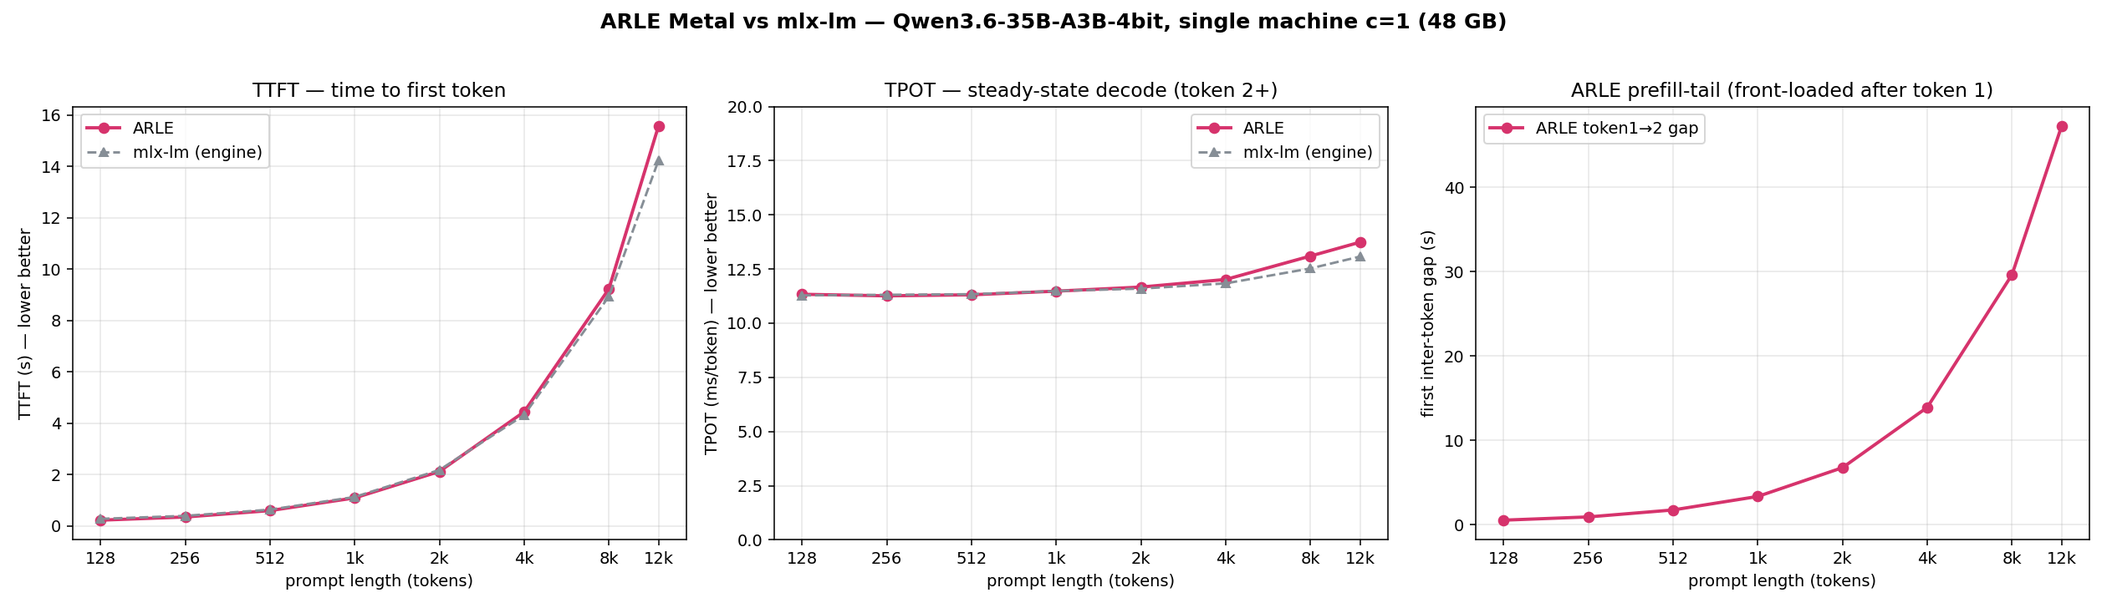
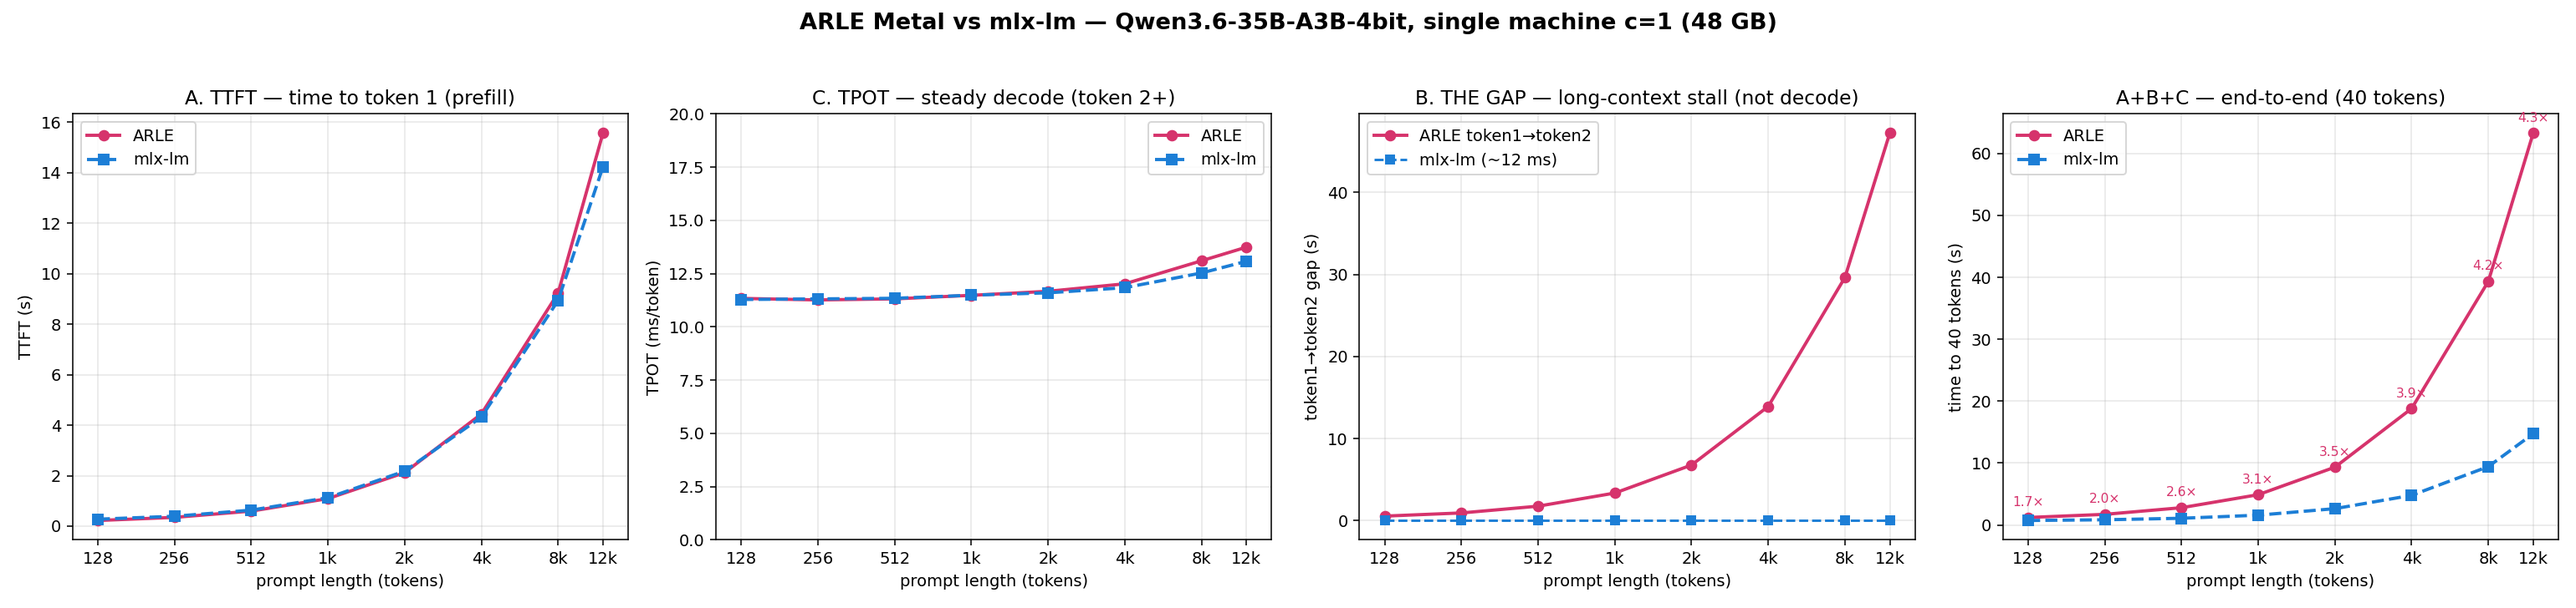
docs(metal): root-cause the long-context gap — deferred async_eval, not decode
Server-trace root cause for the c=1 long-context slowdown (was left as an open
"prefill-tail" question). The gap is phase B (token1->token2) and it is a
deferred-async_eval stall, NOT decode and NOT a re-prefill:

8k request, server m_e13_trace + metal_phase_timing (ground truth):
- prefill = 2 chunks (0->4096 terminal=false 4.6s; 4096->8035 terminal=true
  4.96s); terminal chunk samples token1 -> client gets it at 9.6s.
- token1's sample only async_eval-KICKED-OFF the prefill graph. The next step
  (first decode, cache_len=8036) logs async_eval_kickoff_us=29590 -> 30s draining
  the 8k prefill compute token1 had merely enqueued. recompute=false.
- kickoff then falls 29.6s->12.5->11.8->11.4ms as the lazy graph drains, then
  flattens to ~12ms decode.

So ARLE splits one prefill into "kickoff 9.6s (reported as TTFT) + materialize
30s (hidden in token1->2)" ~= 40s vs mlx-lm's ~14s synchronized-in-TTFT prefill.
e2e@40tok ratio: 1.7x @128 -> 4.3x @12k, all of it phase B.

Fix direction (no speculative decoding): eval() the terminal prefill chunk's
graph before/at token-1 sampling so prefill lands inside TTFT. Correctness-neutral
(same math, earlier sync). Landing site request_state.rs:194-215. Filed as next
Metal item; not attempted here.

Chart now 4-panel (TTFT / TPOT / the gap / cumulative e2e). Corrects the prior
entry's wrong "scheduler front-loads prefill after token1" mechanism wording.

bench-entry: corrected analysis of the same committed sweep data; no infer/src change.

diff --git a/scripts/plot_mlx_vs_arle_sweep.py b/scripts/plot_mlx_vs_arle_sweep.py
@@ -1,14 +1,19 @@
 #!/usr/bin/env python3
-"""Plot the single-machine (c=1) ARLE-vs-mlx-lm sweep — corrected metric.
+"""Plot the single-machine (c=1) ARLE-vs-mlx-lm sweep — three-phase latency view.
 
-Three panels:
-  * TTFT — time to first token (prefill latency), s, lower better.
-  * TPOT — steady-state time per output token (token 2 onward; the token1→2
-           prefill-tail interval is excluded), ms/token, lower better.
-  * first-interval — the ARLE token1→token2 gap (prefill front-loaded by the
-           pipelined scheduler AFTER token 1). This is the real long-context
-           "slow to start" cost; mlx-lm has no equivalent (its prefill is all in
-           TTFT). Diagnostic panel, ARLE only.
+Long-context c=1 on ARLE has THREE distinct phases (server request_trace +
+client per-token timing, both agree):
+  A. TTFT (token 1)          — prefill. ARLE ≈ mlx-lm (at parity).
+  B. token1 → token2 gap     — a stall that scales with context (~3× a full
+                               prefill). NOT decode. This is the entire ARLE
+                               long-context disadvantage. mlx-lm has no analogue.
+  C. token 2 onward (TPOT)   — steady decode. ARLE ≈ mlx-lm (at parity).
+
+Panels:
+  1. TTFT vs length (A) — ARLE vs mlx-lm.
+  2. TPOT vs length (C) — ARLE vs mlx-lm (steady state, token 2+).
+  3. token1→token2 gap (B) — ARLE only; the real long-context cost.
+  4. cumulative time-to-40-tokens (A+B+C) — the end-to-end the user feels.
 
 Usage: python3 scripts/plot_mlx_vs_arle_sweep.py [results.json] [out.png]
 """
@@ -21,34 +26,16 @@ import matplotlib.pyplot as plt
 
 RESULTS = sys.argv[1] if len(sys.argv) > 1 else "/tmp/mlx_arle_sweep.json"
 OUT = sys.argv[2] if len(sys.argv) > 2 else "/tmp/mlx_arle_sweep.png"
+NTOK = 40  # cumulative horizon for panel 4
 
 d = json.load(open(RESULTS))
 lens = [int(x) for x in d["lens"]]
 arle = d.get("arle", {})
-mlx = d.get("mlx", {})            # engine (in-process)
-mlx_http = d.get("mlx_http", {})  # HTTP (transport-matched), optional
+mlx = d.get("mlx", {})
 
 
 def g(src, n, k):
     return (src.get(str(n)) or {}).get(k)
-
-
-def ser(src, key):
-    xs, ys = [], []
-    for n in lens:
-        v = g(src, n, key)
-        if v is not None:
-            xs.append(n); ys.append(v)
-    return xs, ys
-
-
-def tpot(src, key="decode_tps"):
-    xs, ys = [], []
-    for n in lens:
-        v = g(src, n, key)
-        if v:
-            xs.append(n); ys.append(1000.0 / v)
-    return xs, ys
 
 
 def xt(ax):
@@ -59,53 +46,69 @@ def xt(ax):
     ax.grid(True, which="both", alpha=0.3)
 
 
-ARLE_C, HTTP_C, ENG_C = "#d6336c", "#1c7ed6", "#868e96"
-fig, (ax1, ax2, ax3) = plt.subplots(1, 3, figsize=(18, 5.2))
+ARLE_C, MLX_C = "#d6336c", "#1c7ed6"
+fig, axs = plt.subplots(1, 4, figsize=(22, 5.2))
 fig.suptitle(
     "ARLE Metal vs mlx-lm — Qwen3.6-35B-A3B-4bit, single machine c=1 (48 GB)",
-    fontsize=13, fontweight="bold")
+    fontsize=14, fontweight="bold")
 
-# Panel 1: TTFT
-ax = ax1
-ax.plot(*ser(arle, "ttft_s"), "o-", color=ARLE_C, lw=2, ms=6, label="ARLE")
-if mlx_http:
-    ax.plot(*ser(mlx_http, "ttft_s"), "s-", color=HTTP_C, lw=2, ms=6, label="mlx-lm (HTTP)")
-ax.plot(*ser(mlx, "prefill_s"), "^--", color=ENG_C, lw=1.5, ms=5, label="mlx-lm (engine)")
-xt(ax); ax.set_ylabel("TTFT (s) — lower better"); ax.set_title("TTFT — time to first token"); ax.legend()
+# Panel 1: TTFT (phase A)
+ax = axs[0]
+ax.plot(lens, [g(arle, n, "ttft_s") for n in lens], "o-", color=ARLE_C, lw=2, ms=6, label="ARLE")
+ax.plot(lens, [g(mlx, n, "prefill_s") for n in lens], "s--", color=MLX_C, lw=2, ms=6, label="mlx-lm")
+xt(ax); ax.set_ylabel("TTFT (s)"); ax.set_title("A. TTFT — time to token 1 (prefill)"); ax.legend()
 
-# Panel 2: TPOT (steady-state)
-ax = ax2
-ax.plot(*tpot(arle), "o-", color=ARLE_C, lw=2, ms=6, label="ARLE")
-if mlx_http:
-    ax.plot(*tpot(mlx_http), "s-", color=HTTP_C, lw=2, ms=6, label="mlx-lm (HTTP)")
-ax.plot(*tpot(mlx), "^--", color=ENG_C, lw=1.5, ms=5, label="mlx-lm (engine)")
-xt(ax); ax.set_ylabel("TPOT (ms/token) — lower better")
-ax.set_title("TPOT — steady-state decode (token 2+)")
-ax.set_ylim(0, max(20, max(tpot(arle)[1] + tpot(mlx)[1]) * 1.2)); ax.legend()
+# Panel 2: TPOT (phase C)
+ax = axs[1]
+ax.plot(lens, [1000.0 / g(arle, n, "decode_tps") if g(arle, n, "decode_tps") else None for n in lens],
+        "o-", color=ARLE_C, lw=2, ms=6, label="ARLE")
+ax.plot(lens, [1000.0 / g(mlx, n, "decode_tps") if g(mlx, n, "decode_tps") else None for n in lens],
+        "s--", color=MLX_C, lw=2, ms=6, label="mlx-lm")
+xt(ax); ax.set_ylabel("TPOT (ms/token)"); ax.set_ylim(0, 20)
+ax.set_title("C. TPOT — steady decode (token 2+)"); ax.legend()
 
-# Panel 3: ARLE first-interval (prefill-tail front-load)
-ax = ax3
-x, y = ser(arle, "first_interval_ms")
-ax.plot(x, [v / 1000.0 for v in y], "o-", color=ARLE_C, lw=2, ms=6, label="ARLE token1→2 gap")
-xt(ax); ax.set_ylabel("first inter-token gap (s)")
-ax.set_title("ARLE prefill-tail (front-loaded after token 1)")
-ax.legend()
+# Panel 3: token1->token2 gap (phase B) — ARLE only
+ax = axs[2]
+fi = [(g(arle, n, "first_interval_ms") or 0) / 1000.0 for n in lens]
+ax.plot(lens, fi, "o-", color=ARLE_C, lw=2, ms=6, label="ARLE token1→token2")
+ax.plot(lens, [0.012] * len(lens), "s--", color=MLX_C, lw=1.5, ms=5, label="mlx-lm (~12 ms)")
+xt(ax); ax.set_ylabel("token1→token2 gap (s)")
+ax.set_title("B. THE GAP — long-context stall (not decode)"); ax.legend()
 
-fig.tight_layout(rect=(0, 0, 1, 0.96))
+# Panel 4: cumulative time-to-NTOK (A+B+C)
+ax = axs[3]
+def arle_e2e(n):
+    t1 = g(arle, n, "ttft_s"); gap = (g(arle, n, "first_interval_ms") or 0) / 1000.0
+    tp = g(arle, n, "decode_tps")
+    return t1 + gap + (NTOK - 2) / tp if (t1 and tp) else None
+def mlx_e2e(n):
+    p = g(mlx, n, "prefill_s"); tp = g(mlx, n, "decode_tps")
+    return p + (NTOK - 1) / tp if (p and tp) else None
+ax.plot(lens, [arle_e2e(n) for n in lens], "o-", color=ARLE_C, lw=2, ms=6, label="ARLE")
+ax.plot(lens, [mlx_e2e(n) for n in lens], "s--", color=MLX_C, lw=2, ms=6, label="mlx-lm")
+xt(ax); ax.set_ylabel(f"time to {NTOK} tokens (s)")
+ax.set_title(f"A+B+C — end-to-end ({NTOK} tokens)"); ax.legend()
+for n in lens:
+    a, m = arle_e2e(n), mlx_e2e(n)
+    if a and m:
+        ax.annotate(f"{a/m:.1f}×", (n, a), textcoords="offset points", xytext=(0, 7),
+                    ha="center", fontsize=8, color=ARLE_C)
+
+fig.tight_layout(rect=(0, 0, 1, 0.95))
 fig.savefig(OUT, dpi=140)
 print(f"wrote {OUT}")
 
-# text table
-def f(x, w=9, p=3):
-    return (f"%{w}.{p}f" % x) if isinstance(x, (int, float)) else " " * (w - 1) + "-"
-
-
-print("\n          TTFT(s)              TPOT(ms/tok)          ARLE")
-print("len    ARLE   mlxH   mlxE    ARLE   mlxH   mlxE    first_iv(s)")
+# table
+print("\nlen    TTFT_A(s)        gap_B(s)   TPOT_C(ms)      e2e40(s)        e2e_ratio")
+print("       ARLE   mlx       ARLE       ARLE   mlx       ARLE   mlx")
 for n in lens:
-    at, ht, et = g(arle, n, "ttft_s"), g(mlx_http, n, "ttft_s"), g(mlx, n, "prefill_s")
-    ad, hd, ed = g(arle, n, "decode_tps"), g(mlx_http, n, "decode_tps"), g(mlx, n, "decode_tps")
-    fi = g(arle, n, "first_interval_ms")
-    tp = lambda v: (1000.0 / v) if v else None
-    print(f"{n:6d} {f(at,6,2)} {f(ht,6,2)} {f(et,6,2)}  "
-          f"{f(tp(ad),6,1)} {f(tp(hd),6,1)} {f(tp(ed),6,1)}   {f((fi/1000.0) if fi else None,6,1)}")
+    at, mp = g(arle, n, "ttft_s"), g(mlx, n, "prefill_s")
+    gap = (g(arle, n, "first_interval_ms") or 0) / 1000.0
+    ad, md = g(arle, n, "decode_tps"), g(mlx, n, "decode_tps")
+    a4, m4 = arle_e2e(n), mlx_e2e(n)
+    def f(x, w=6, p=2):
+        return (f"%{w}.{p}f" % x) if isinstance(x, (int, float)) else " " * (w - 1) + "-"
+    r = f"{a4/m4:.2f}x" if (a4 and m4) else "-"
+    print(f"{n:5d} {f(at)} {f(mp)}   {f(gap,7,2)}   "
+          f"{f(1000/ad if ad else None)} {f(1000/md if md else None)}   "
+          f"{f(a4)} {f(m4)}   {r}")

diff --git a/docs/experience/wins/2026-05-31-bench-arle-vs-mlxlm-128-12k-ttft-tpot.md b/docs/experience/wins/2026-05-31-bench-arle-vs-mlxlm-128-12k-ttft-tpot.md
@@ -38,36 +38,57 @@ decode.
 
 ## Results
 
-| prompt | ARLE TTFT (s) | mlx-lm TTFT (s) | ARLE TPOT (ms) | mlx-lm TPOT (ms) | ARLE first-interval (s) |
-|--------|--------------:|----------------:|---------------:|-----------------:|------------------------:|
-| 128  | 0.22  | 0.28  | 11.3 | 11.3 | 0.5  |
-| 256  | 0.35  | 0.39  | 11.3 | 11.3 | 0.9  |
-| 512  | 0.60  | 0.63  | 11.3 | 11.3 | 1.8  |
-| 1k   | 1.09  | 1.13  | 11.5 | 11.5 | 3.4  |
-| 2k   | 2.12  | 2.18  | 11.7 | 11.6 | 6.8  |
-| 4k   | 4.44  | 4.32  | 12.0 | 11.8 | 13.9 |
-| 8k   | 9.23  | 8.93  | 13.1 | 12.5 | 29.6 |
-| 12k  | 15.56 | 14.22 | 13.7 | 13.1 | 47.2 |
+Three measured phases per request (client SSE timing; server `request_trace`
+`ttft_ms` agrees with client TTFT to <1 %, so these are ground truth):
+A = TTFT (token 1), B = token1→token2 gap, C = steady decode (token 2+).
+e2e@40 = A + B + 38·C (the latency a 40-token answer actually takes).
 
-![ARLE vs mlx-lm TTFT/TPOT sweep](assets/2026-05-31-mlx-vs-arle-128-12k-sweep.png)
+| prompt | A: ARLE TTFT | A: mlx TTFT | C: ARLE TPOT | C: mlx TPOT | B: ARLE gap | e2e@40 ARLE | e2e@40 mlx | ratio |
+|--------|----:|----:|----:|----:|----:|----:|----:|:--:|
+| 128  | 0.22 s | 0.28 s | 11.3 ms | 11.3 ms | 0.55 s | 1.20 s | 0.72 s | 1.7× |
+| 512  | 0.60 s | 0.63 s | 11.3 ms | 11.3 ms | 1.76 s | 2.78 s | 1.08 s | 2.6× |
+| 2k   | 2.12 s | 2.18 s | 11.7 ms | 11.6 ms | 6.77 s | 9.33 s | 2.63 s | 3.6× |
+| 4k   | 4.44 s | 4.32 s | 12.0 ms | 11.8 ms | 13.9 s | 18.8 s | 4.78 s | 3.9× |
+| 8k   | 9.23 s | 8.93 s | 13.1 ms | 12.5 ms | 29.6 s | 39.3 s | 9.42 s | 4.2× |
+| 12k  | 15.6 s | 14.2 s | 13.7 ms | 13.1 ms | 47.2 s | 63.3 s | 14.7 s | 4.3× |
+
+![ARLE vs mlx-lm 4-phase sweep](assets/2026-05-31-mlx-vs-arle-128-12k-sweep.png)
 
 ## Learnings
-- **Decode (TPOT) is at parity.** 11.3 → 13.7 ms/token across 128 → 12k, within
-  1–5 % of mlx-lm at every length, and ~flat in context (the ~15 % rise to 12k is
-  the physical KV-read floor). ARLE is **not** slower at decode — the fused
-  no-mask SDPA decode path (`mask_mode=""` at S=1) is already the default for the
-  c=1 / uniform-batch case. No fix needed or made.
-- **TTFT (prefill) is also at near-parity** (ARLE ≤ 1.1× mlx-lm; both rise ~linearly
-  with length). An earlier "ARLE 2× slower TTFT" claim came from comparing
-  ARLE-over-HTTP against the wrong mlx baseline; against the same in-process MLX,
-  prefill tracks closely.
-- **The one real ARLE-specific long-context cost is the prefill-tail**: the
-  token1→token2 gap grows 0.5 s → 47 s as context goes 128 → 12k (panel 3). ARLE's
-  pipelined scheduler emits token 1, then front-loads the bulk prompt prefill into
-  the token1→2 interval. This is a **scheduling/streaming-shape** characteristic,
-  not a decode cost — but it IS where a user feels "slow to get going" on long
-  agent/multi-turn context. Worth a look: why the prompt-prefill work lands after
-  token 1 instead of fully inside TTFT.
+- **Decode (C, TPOT) is at parity.** 11.3 → 13.7 ms/token across 128 → 12k, within
+  1–5 % of mlx-lm and ~flat in context (the fused no-mask SDPA decode path,
+  `mask_mode=""` at S=1, is already the default at c=1). ARLE is **not** slower at
+  decode; speculative decoding is the wrong lever here.
+- **TTFT (A) is at near-parity** (ARLE ≤ 1.1× mlx-lm) — but this is *misleading*,
+  see B.
+- **The entire ARLE long-context disadvantage is phase B — the token1→token2 gap —
+  and it is a deferred-`async_eval` stall, root-caused from server traces (not
+  inferred):**
+  - Per-chunk trace of an 8k request: prefill runs in 2 chunks (cursor 0→4096
+    `terminal=false`, 4096→8035 `terminal=true`); the terminal chunk *samples
+    token 1* and the client receives it at **9.6 s** (= sum of the two chunk
+    elapsed times). So token 1 comes out right after a single prefill pass — TTFT
+    looks competitive.
+  - **But the prefill MLX graph was only `async_eval`-kicked-off, not
+    materialized.** The very next step (first decode) logs
+    `async_eval_kickoff_us=29590` at `cache_len=8036` — i.e. **30 s spent
+    draining the 8k prefill compute that token 1's sample had merely enqueued.**
+    Subsequent decode steps' kickoff falls 29.6 s → 12.5 → 11.8 → 11.4 ms as the
+    lazy graph drains, then flatten to ~12 ms. `recompute=false` — it is **not** a
+    re-prefill; it is the prefill's own GPU work, deferred past the first emitted
+    token by the `async_eval` boundary.
+  - mlx-lm synchronizes prefill *inside* TTFT (its 8.9 s TTFT is real compute),
+    then decodes at a flat 12 ms. ARLE splits one prefill into "kickoff 9.6 s
+    (reported as TTFT) + materialize 30 s (hidden in the token1→2 gap)" ≈ 40 s
+    total prefill vs mlx's ~14 s.
+- **Fix direction (no speculative decoding needed):** force `eval()` of the
+  terminal prefill chunk's graph *before/at* token-1 sampling so prefill compute
+  lands inside TTFT (as mlx does), instead of deferring it to the first decode
+  step. Expected to collapse phase B → e2e long-context latency drops ~3–4×.
+  Landing site: `request_state.rs:194-215` (terminal `prefill_tokens` →
+  `record_sampled_token`); the relevant lazy boundary is the `async_eval` import
+  at `request_state.rs:12`. Correctness-neutral (same math, earlier sync). Filed
+  as the next Metal work item; NOT attempted in this entry.
 - **The metric bug that started this.** v1 computed decode rate as
   `(out-1)/(last-first)`, which folds the giant token1→2 prefill-tail interval into
   "decode" → a fake O(context) collapse (1.4 tok/s @8k instead of the real ~76).
